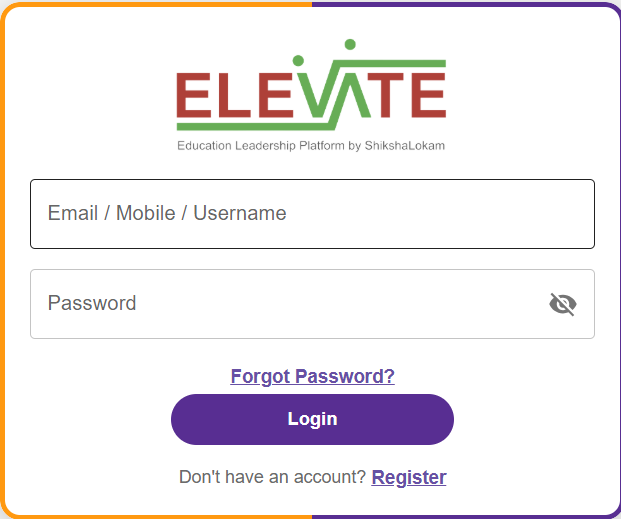
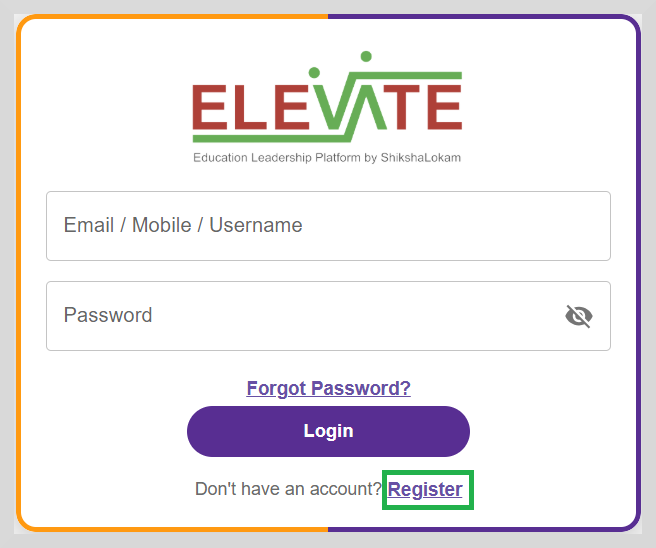
Updated login and register docs
Updated a few docs under Using the Application

Changed region(s): [[0.0, 0.0, 1.0, 1.0]]

diff --git a/src/docusaurus/sidebarsUserservices.js b/src/docusaurus/sidebarsUserservices.js
@@ -72,7 +72,7 @@ const sidebars = {
         {
       type: 'doc',
       id: 'resetpwd',
-      label: 'Reset Your Password',
+      label: 'Resetting Your Password',
     },
 
 
